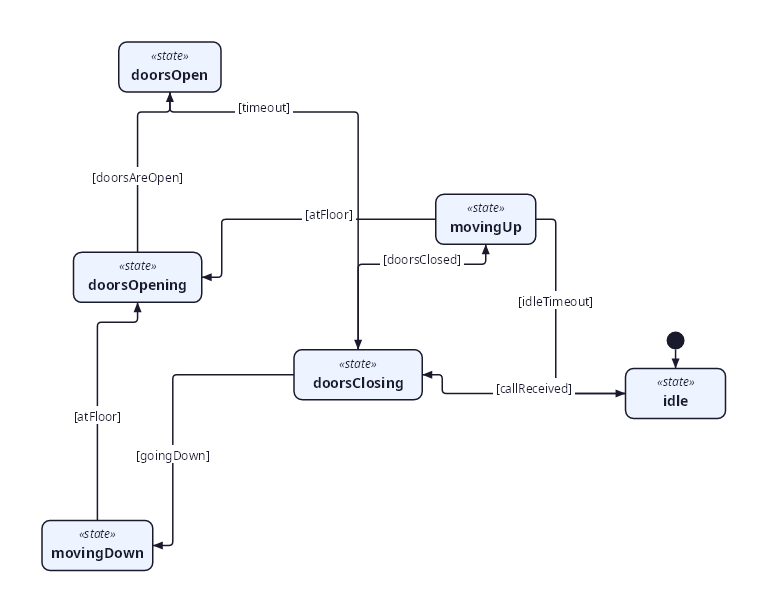
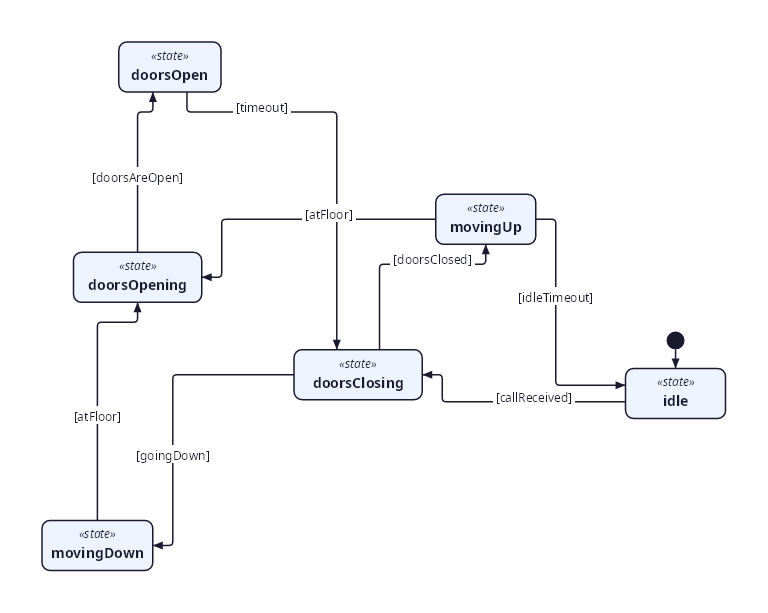
feat: distribute state-transition connectors across edge anchor points
Group transition endpoints by box edge and lay them out at distinct points
instead of all stacking on the side midpoint. Endpoints are ordered by their
counterpart position to minimize crossings, then adjacent same-direction
endpoints are merged into shared anchor points. This keeps incoming arrowheads
from coinciding with outgoing transitions, so every connector's direction is
unambiguous.

- Replace AnchorToward midpoint anchoring with SideToward + PointOnSide + OrderKey
- Regenerate Elevator gallery images
- Add bidirectional-edge anchor-distinctness test

diff --git a/src/DemaConsulting.SysML2Tools.Core/Layout/Internal/StateTransitionViewLayoutStrategy.cs b/src/DemaConsulting.SysML2Tools.Core/Layout/Internal/StateTransitionViewLayoutStrategy.cs
@@ -241,14 +241,92 @@ internal sealed class StateTransitionViewLayoutStrategy : ILayoutStrategy
     /// Adds transition edges (with guard labels) between state boxes, returning the number of edges
     /// that could not be routed without crossing a state box.
     /// </summary>
+    /// <remarks>
+    /// Each transition end attaches to the side of its box that faces the other state. When several
+    /// transitions share the same box side, their anchor points are distributed evenly along that
+    /// side (ordered to face their counterparts) instead of all stacking on the side midpoint, so an
+    /// incoming arrowhead never coincides with another transition's endpoint.
+    /// </remarks>
     private static int AddTransitions(
         IReadOnlyList<TransitionItem> transitions,
         Rect[] stateRects,
         List<LayoutNode> nodes)
     {
-        var crossings = 0;
-        foreach (var transition in transitions)
+        var count = transitions.Count;
+        var srcSide = new PortSide[count];
+        var tgtSide = new PortSide[count];
+        var srcPoint = new Point2D[count];
+        var tgtPoint = new Point2D[count];
+
+        // Pass 1: determine the side each transition end attaches to.
+        for (var i = 0; i < count; i++)
         {
+            var transition = transitions[i];
+            if (transition.Source == transition.Target)
+            {
+                continue;
+            }
+
+            srcSide[i] = SideToward(stateRects[transition.Source], Centre(stateRects[transition.Target]));
+            tgtSide[i] = SideToward(stateRects[transition.Target], Centre(stateRects[transition.Source]));
+        }
+
+        // Pass 2: group endpoints by (state, side) and distribute them evenly along each side.
+        var groups = new Dictionary<(int State, PortSide Side), List<(int Trans, bool IsSource, double Order)>>();
+        for (var i = 0; i < count; i++)
+        {
+            var transition = transitions[i];
+            if (transition.Source == transition.Target)
+            {
+                continue;
+            }
+
+            AddEndpoint(groups, transition.Source, srcSide[i], i, isSource: true, OrderKey(srcSide[i], Centre(stateRects[transition.Target])));
+            AddEndpoint(groups, transition.Target, tgtSide[i], i, isSource: false, OrderKey(tgtSide[i], Centre(stateRects[transition.Source])));
+        }
+
+        foreach (var group in groups)
+        {
+            var ordered = group.Value.OrderBy(e => e.Order).ToList();
+
+            // Collapse runs of consecutive same-direction endpoints into shared anchor slots: this
+            // keeps inputs and outputs on separate points (so direction is never ambiguous) while
+            // reducing the number of distinct points on a busy edge. The crossing-minimizing order
+            // (by counterpart position) is preserved, so only adjacent same-direction edges merge.
+            var slots = new List<(bool IsSource, List<int> Trans)>();
+            foreach (var endpoint in ordered)
+            {
+                if (slots.Count == 0 || slots[^1].IsSource != endpoint.IsSource)
+                {
+                    slots.Add((endpoint.IsSource, []));
+                }
+
+                slots[^1].Trans.Add(endpoint.Trans);
+            }
+
+            for (var s = 0; s < slots.Count; s++)
+            {
+                var frac = (s + 1.0) / (slots.Count + 1.0);
+                var point = PointOnSide(stateRects[group.Key.State], group.Key.Side, frac);
+                foreach (var trans in slots[s].Trans)
+                {
+                    if (slots[s].IsSource)
+                    {
+                        srcPoint[trans] = point;
+                    }
+                    else
+                    {
+                        tgtPoint[trans] = point;
+                    }
+                }
+            }
+        }
+
+        // Pass 3: route each transition and build its line.
+        var crossings = 0;
+        for (var i = 0; i < count; i++)
+        {
+            var transition = transitions[i];
             var label = transition.Guard is { Length: > 0 } g ? $"[{g}]" : null;
 
             if (transition.Source == transition.Target)
@@ -257,21 +335,16 @@ internal sealed class StateTransitionViewLayoutStrategy : ILayoutStrategy
                 continue;
             }
 
-            var from = stateRects[transition.Source];
-            var to = stateRects[transition.Target];
-            var (source, sourceSide) = AnchorToward(from, Centre(to));
-            var (target, targetSide) = AnchorToward(to, Centre(from));
-
             var obstacles = new List<Rect>();
-            for (var i = 0; i < stateRects.Length; i++)
+            for (var j = 0; j < stateRects.Length; j++)
             {
-                if (i != transition.Source && i != transition.Target)
+                if (j != transition.Source && j != transition.Target)
                 {
-                    obstacles.Add(stateRects[i]);
+                    obstacles.Add(stateRects[j]);
                 }
             }
 
-            var route = ChannelRouter.RouteWithStatus(source, target, obstacles, TransitionClearance, sourceSide, targetSide);
+            var route = ChannelRouter.RouteWithStatus(srcPoint[i], tgtPoint[i], obstacles, TransitionClearance, srcSide[i], tgtSide[i]);
             if (route.Crossed)
             {
                 crossings++;
@@ -286,6 +359,25 @@ internal sealed class StateTransitionViewLayoutStrategy : ILayoutStrategy
         }
 
         return crossings;
+    }
+
+    /// <summary>Registers a transition endpoint against the (state, side) group it attaches to.</summary>
+    private static void AddEndpoint(
+        Dictionary<(int State, PortSide Side), List<(int Trans, bool IsSource, double Order)>> groups,
+        int state,
+        PortSide side,
+        int trans,
+        bool isSource,
+        double order)
+    {
+        var key = (state, side);
+        if (!groups.TryGetValue(key, out var list))
+        {
+            list = [];
+            groups[key] = list;
+        }
+
+        list.Add((trans, isSource, order));
     }
 
     /// <summary>Builds a small self-transition loop above the state box.</summary>
@@ -313,10 +405,9 @@ internal sealed class StateTransitionViewLayoutStrategy : ILayoutStrategy
     }
 
     /// <summary>
-    /// Returns the midpoint of the box side whose outward normal best points at the target, along
-    /// with that side.
+    /// Returns the side of the box whose outward normal best points at the target.
     /// </summary>
-    private static (Point2D Point, PortSide Side) AnchorToward(Rect box, Point2D target)
+    private static PortSide SideToward(Rect box, Point2D target)
     {
         var cx = box.X + (box.Width / 2.0);
         var cy = box.Y + (box.Height / 2.0);
@@ -325,15 +416,30 @@ internal sealed class StateTransitionViewLayoutStrategy : ILayoutStrategy
 
         if (Math.Abs(dx) >= Math.Abs(dy))
         {
-            return dx >= 0
-                ? (new Point2D(box.X + box.Width, cy), PortSide.Right)
-                : (new Point2D(box.X, cy), PortSide.Left);
+            return dx >= 0 ? PortSide.Right : PortSide.Left;
         }
 
-        return dy >= 0
-            ? (new Point2D(cx, box.Y + box.Height), PortSide.Bottom)
-            : (new Point2D(cx, box.Y), PortSide.Top);
+        return dy >= 0 ? PortSide.Bottom : PortSide.Top;
     }
+
+    /// <summary>
+    /// Returns the point at fractional position <paramref name="frac"/> (0..1) along the given side
+    /// of the box.
+    /// </summary>
+    private static Point2D PointOnSide(Rect box, PortSide side, double frac) => side switch
+    {
+        PortSide.Top => new Point2D(box.X + (frac * box.Width), box.Y),
+        PortSide.Bottom => new Point2D(box.X + (frac * box.Width), box.Y + box.Height),
+        PortSide.Left => new Point2D(box.X, box.Y + (frac * box.Height)),
+        _ => new Point2D(box.X + box.Width, box.Y + (frac * box.Height)),
+    };
+
+    /// <summary>
+    /// Returns the ordering key used to lay endpoints out along a side so their connectors fan out
+    /// toward their counterparts without crossing: the counterpart coordinate along the side's axis.
+    /// </summary>
+    private static double OrderKey(PortSide side, Point2D counterpart) =>
+        side is PortSide.Top or PortSide.Bottom ? counterpart.X : counterpart.Y;
 
     /// <summary>Returns the centre point of a rectangle.</summary>
     private static Point2D Centre(Rect rect) =>

diff --git a/test/DemaConsulting.SysML2Tools.Tests/Layout/StateTransitionViewLayoutStrategyTests.cs b/test/DemaConsulting.SysML2Tools.Tests/Layout/StateTransitionViewLayoutStrategyTests.cs
@@ -96,4 +96,49 @@ public sealed class StateTransitionViewLayoutStrategyTests
 
         Assert.Empty(layout.Nodes);
     }
+
+    /// <summary>
+    ///     A state with both an outgoing and an incoming transition on the same edge anchors them at
+    ///     distinct points so the two arrows do not coincide (which would hide their direction).
+    /// </summary>
+    [Fact]
+    public void StateTransitionView_BuildLayout_InAndOutOnSameEdge_UseDistinctAnchors()
+    {
+        // Arrange: two states with transitions in both directions (a->b and b->a).
+        var strategy = new StateTransitionViewLayoutStrategy();
+        var machine = new SysmlDefinitionNode
+        {
+            Name = "M",
+            QualifiedName = "P::M",
+            DefinitionKeyword = "state def",
+            Children =
+            [
+                new SysmlFeatureNode { Name = "a", QualifiedName = "P::M::a", FeatureKeyword = "state" },
+                new SysmlFeatureNode { Name = "b", QualifiedName = "P::M::b", FeatureKeyword = "state" },
+                new SysmlTransitionNode { Source = "a", Target = "b", Guard = "fwd" },
+                new SysmlTransitionNode { Source = "b", Target = "a", Guard = "rev" }
+            ]
+        };
+        var workspace = new SysmlWorkspace
+        {
+            Declarations = new Dictionary<string, SysmlNode> { ["P::M"] = machine }
+        };
+        var context = new ViewContext("StateTransition", workspace);
+        var options = new RenderOptions(Themes.Light);
+
+        // Act
+        var layout = strategy.BuildLayout(context, options);
+
+        // The forward line leaves state 'a' at its first waypoint; the reverse line enters state 'a'
+        // at its last waypoint. Both are on a's edge facing b, so they must be different points.
+        var lines = layout.Nodes.OfType<LayoutLine>().ToList();
+        var forward = lines.Single(l => l.MidpointLabel == "[fwd]");
+        var reverse = lines.Single(l => l.MidpointLabel == "[rev]");
+        var outAnchor = forward.Waypoints[0];
+        var inAnchor = reverse.Waypoints[^1];
+
+        Assert.False(
+            Math.Abs(outAnchor.X - inAnchor.X) < 1e-6 && Math.Abs(outAnchor.Y - inAnchor.Y) < 1e-6,
+            "Outgoing and incoming transitions on the same edge must not share an anchor point.");
+    }
 }